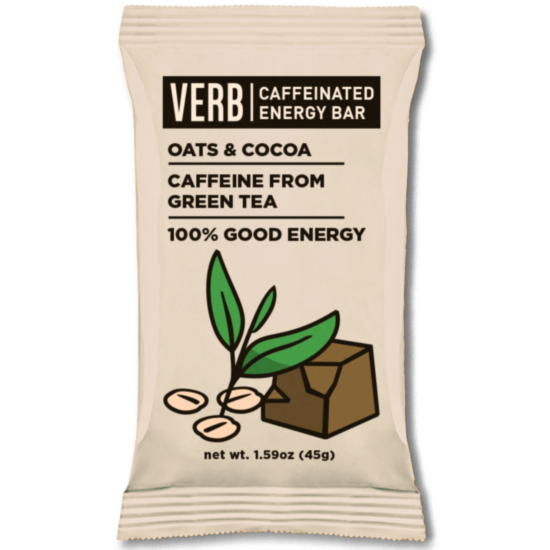
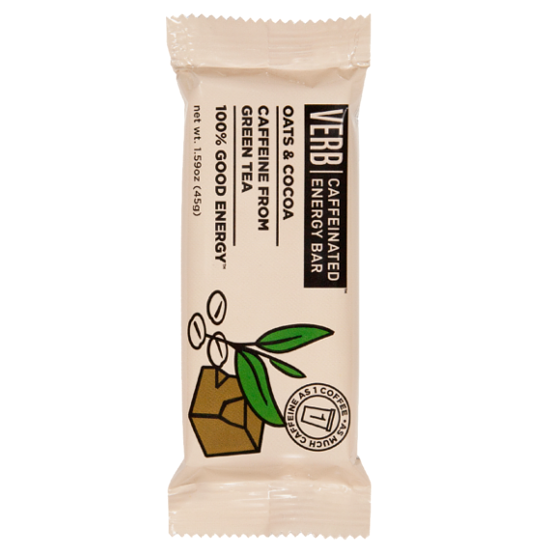
Changed bar image and order verb packaging image

diff --git a/public/css/main.css b/public/css/main.css
@@ -629,13 +629,15 @@ header .landing-copy .landing-button:hover a {
   padding: 25px;
   margin-top: -15px;
   margin-bottom: 30px;
+  transition: all 100ms ease;
 }
 #OrderVerb .order-bar-image img {
   max-width: 100%;
-  width: 90%;
-  margin: 0 auto 0 5%;
+  width: 100%;
+  //margin: 0 auto 0 5%;
   padding-top: 15px;
   padding-bottom: 15px;
+  transition: all 100ms ease;
 }
 #OrderVerb .section-content {
   text-align: center;
@@ -1234,7 +1236,9 @@ footer .center .designer a {
     min-height: 650px;
   }
   #OrderVerb .order-bar-image img {
-    padding-top: 13%;
+    padding-top: 8%;
+    max-width: 520px;
+    margin: 0 auto;
   }
 }
 @media (min-width: 1154px) {

diff --git a/index.html b/index.html
@@ -391,7 +391,8 @@
 					<div class="mobile-12 desktop-custom-lg">
 						<div class="order-bar-image">
 							<div class="image-wrapper">
-								<img src="/public/img/bar_mockup.png" alt="Verb Bar Mockup"/>
+								<!--<img src="/public/img/bar_mockup.png" alt="Verb Bar Mockup"/>-->
+								<img src="/public/img/bar_order_mockup.png" alt="Verb Package Mockup"/>
 							</div>
 						</div>
 					</div>
